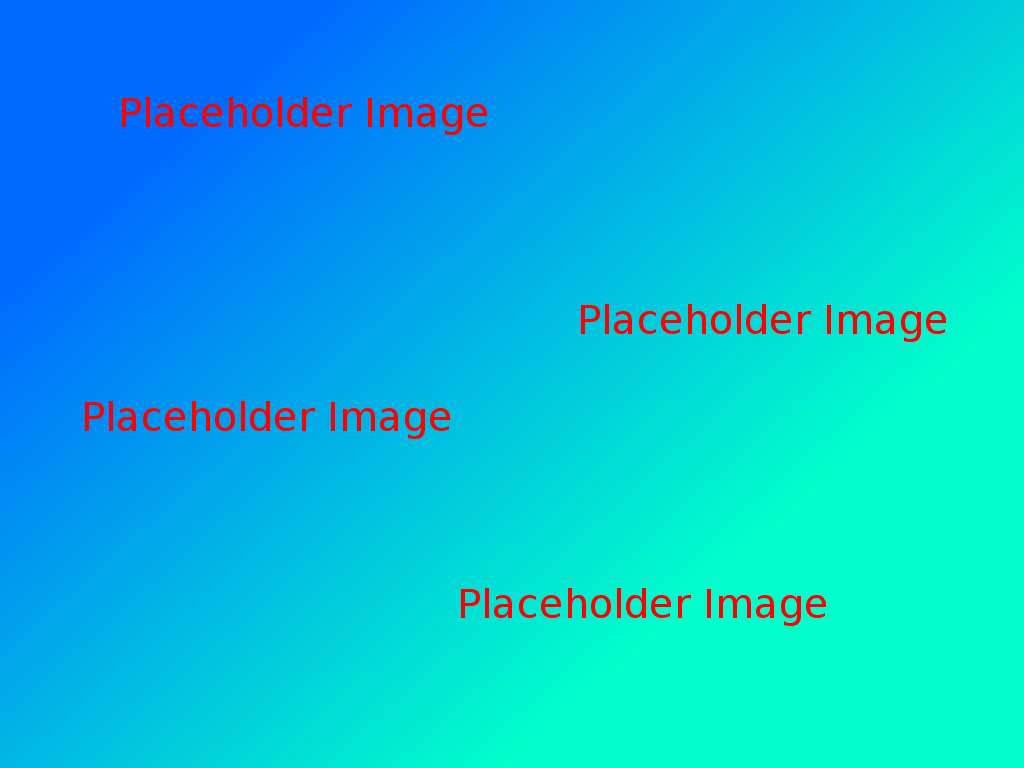
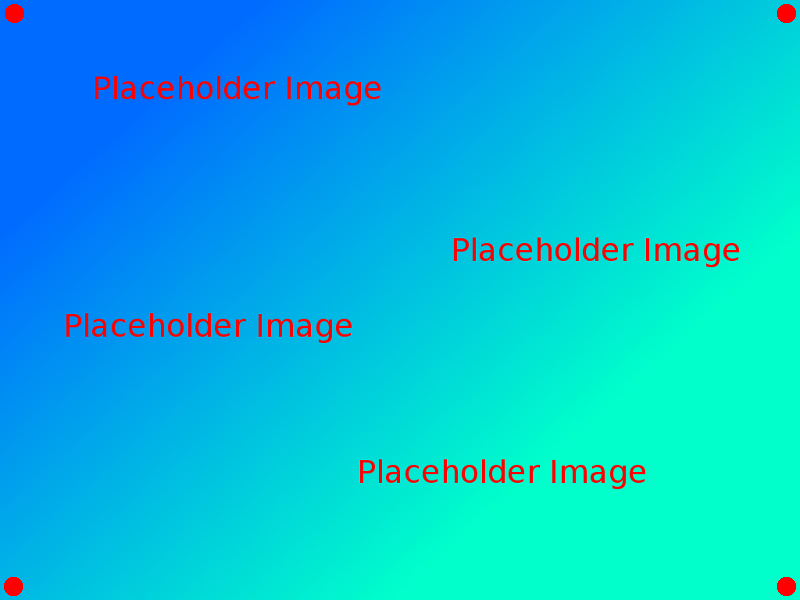
Make scenes available from scripting and fix problems.
This now actually works. To enter into scene mode, add the following
line to a level script:

    Scene.play(:prologue)

Once it gets executed, scene mode starts and displays a placeholder
image. Press Return to return to the level.

diff --git a/tsc/src/scene/scene.cpp b/tsc/src/scene/scene.cpp
@@ -33,16 +33,19 @@ using namespace TSC;
 
 cScene::cScene(void)
     : mp_sprite_manager(new cSprite_Manager()),
+      mp_camera(new cCamera(mp_sprite_manager)),
       mp_scene_image(new cSprite(mp_sprite_manager))
 {
     mp_scene_image->Set_Massive_Type(MASS_PASSIVE);
     mp_scene_image->Set_Active(true);
     mp_scene_image->Set_Spawned(false);
+    mp_scene_image->Set_Scale_Affects_Rect(true);
     mp_sprite_manager->Add(mp_scene_image);
 }
 
 cScene::~cScene(void)
 {
+    delete mp_camera;
     delete mp_sprite_manager; // Delete mp_scene_image
 }
 
@@ -50,8 +53,11 @@ void cScene::Enter(const GameMode old_mode)
 {
     pMouseCursor->Set_Sprite_Manager(mp_sprite_manager);
     pMouseCursor->Set_Active(false);
-    pAudio->Play_Music("story/theme_1", true, 0, 1000);
     gp_hud->Hide();
+
+    pActive_Camera = mp_camera;
+
+    mp_scene_image->Set_Pos(0, -game_res_h, true);
 }
 
 void cScene::Leave(const GameMode next_mode)
@@ -76,31 +82,35 @@ void cScene::Update(void)
         }
     }
 
-    // End the scene if the action sequence is empty.
+    pActive_Camera->Update();
+
+    // End the scene if the action sequence is empty, and return
+    // to the active level.
     // (Changing Game_Action subsequently causes the main loop
     // to call cScene::Leave() and then destroy it).
     if (m_action_sequence.size() == 0) {
-        Game_Action = GA_ENTER_MENU;
-        Game_Action_Data_Start.add("screen_fadeout_speed", "1.5");
-        Game_Action_Data_Middle.add("load_menu", int_to_string(MENU_START));
-        Game_Action_Data_Middle.add("menu_start_current_level", path_to_utf8(Trim_Filename(pActive_Level->m_level_filename, 0, 0)));
-        Game_Action_Data_End.add("screen_fadein_speed", "1.5");
+        Game_Action = GA_ENTER_LEVEL;
+        Game_Action_Data_Start.add("screen_fadeout", int_to_string(EFFECT_OUT_HORIZONTAL_VERTICAL));
+        Game_Action_Data_Start.add("screen_fadeout_speed", "3");
+        Game_Action_Data_Middle.add("load_level", pActive_Level->Get_Level_Name().c_str());
+        //Game_Action_Data_Middle.add("load_level_entry", str_entry.c_str()); // TODO: Use this to prevent player reset to initial position
+        Game_Action_Data_End.add("screen_fadein", int_to_string(EFFECT_IN_BLACK));
+        Game_Action_Data_End.add("screen_fadein_speed", "3");
+        //Game_Action_Data_End.add("activate_level_entry", str_entry.c_str());
     }
 }
 
 void cScene::Draw(void)
 {
+    // clear
+    pVideo->Clear_Screen();
+    // Draw scene
     mp_sprite_manager->Draw_Items();
 }
 
 void cScene::Set_Scene_Image(std::string scene_image)
 {
     mp_scene_image->Set_Image(pVideo->Get_Surface(utf8_to_path(scene_image)), true);
-}
-
-void cScene::Set_Music(std::string music)
-{
-    // TODO
 }
 
 bool cScene::Key_Down(const sf::Event& evt)

diff --git a/tsc/src/scripting/objects/misc/mrb_scene.cpp b/tsc/src/scripting/objects/misc/mrb_scene.cpp
@@ -1,0 +1,74 @@
+/***************************************************************************
+ * mrb_scene.cpp
+ *
+ * Copyright © 2012-2019 The TSC Contributors
+ ***************************************************************************
+ *
+ * This program is free software; you can redistribute it and/or modify
+ * it under the terms of the GNU General Public License as published by
+ * the Free Software Foundation; either version 3 of the License, or
+ * (at your option) any later version.
+ * You should have received a copy of the GNU General Public License
+ * along with this program. If not, see <http://www.gnu.org/licenses/>.
+ */
+
+#include "mrb_scene.hpp"
+#include "../../../scene/scene.hpp"
+#include "../../../core/game_core.hpp"
+
+/**
+ * Module: Scene
+ *
+ * Module for playing the visual novel scenes.
+ */
+
+using namespace TSC;
+using namespace TSC::Scripting;
+
+// Helper method
+static void Play_Scene(enum Scenes scene)
+{
+    Game_Action = GA_ENTER_SCENE;
+    Game_Action_Data_Start.add("screen_fadeout_speed", "1.5");
+    Game_Action_Data_Middle.add("load_scene", int_to_string(scene));
+    Game_Action_Data_End.add("screen_fadein_speed", "1.5");
+}
+
+/**
+ * Method: Scene::play
+ *
+ *   play( scene )
+ *
+ * Calling this method plays the scene with the name `scene`, which
+ * has to be a symbol, e.g. `:prologue` (to play the prologue scene).
+ *
+ * This method returns, but on the next frame update after return
+ * the game mode switches to scene mode. Once the scene has completed,
+ * the game mode returns to level mode in the level that was active
+ * when scene play was started.
+ *
+ * *Remark*: This means that this method does not block until the
+ * scene has finished!
+ */
+static mrb_value Play(mrb_state* p_state, mrb_value self)
+{
+    mrb_sym ident;
+    mrb_get_args(p_state, "n", &ident);
+    std::string identstr = mrb_sym2name(p_state, ident);
+
+    if (identstr == "prologue") {
+        Play_Scene(SCENE_PROLOGUE);
+    }
+    else {
+        mrb_raisef(p_state, MRB_ARGUMENT_ERROR(p_state), "Invalid scene '%s'.", identstr.c_str());
+    }
+
+    return mrb_nil_value();
+}
+
+void TSC::Scripting::Init_Scene(mrb_state* p_state)
+{
+    struct RClass* p_rmScene = mrb_define_module(p_state, "Scene");
+
+    mrb_define_module_function(p_state, p_rmScene, "play", Play, MRB_ARGS_REQ(1));
+}

diff --git a/tsc/src/scripting/objects/misc/mrb_scene.hpp b/tsc/src/scripting/objects/misc/mrb_scene.hpp
@@ -1,0 +1,25 @@
+/***************************************************************************
+ * mrb_scene.hpp
+ *
+ * Copyright © 2012-2019 The TSC Contributors
+ ***************************************************************************
+ *
+ * This program is free software; you can redistribute it and/or modify
+ * it under the terms of the GNU General Public License as published by
+ * the Free Software Foundation; either version 3 of the License, or
+ * (at your option) any later version.
+ * You should have received a copy of the GNU General Public License
+ * along with this program. If not, see <http://www.gnu.org/licenses/>.
+ */
+
+#ifndef TSC_MRB_SCENE_HPP
+#define TSC_MRB_SCENE_HPP
+#include "../../scripting.hpp"
+
+namespace TSC {
+    namespace Scripting {
+        void Init_Scene(mrb_state* p_state);
+    }
+}
+
+#endif /* TSC_MRB_SCENE_HPP */

diff --git a/tsc/src/scene/scene_actions.cpp b/tsc/src/scene/scene_actions.cpp
@@ -15,6 +15,7 @@
 */
 
 #include "scene_actions.hpp"
+#include "../audio/audio.hpp"
 #include "scene.hpp"
 
 namespace fs = boost::filesystem;
@@ -41,4 +42,37 @@ bool ImageChange::Execute()
 {
     mp_scene->Set_Scene_Image(m_scene_image);
     return true;
+}
+
+MusicChange::MusicChange(cScene* p_scene, std::string music)
+    : Action(p_scene),
+      m_music(music)
+{
+}
+
+bool MusicChange::Execute()
+{
+    pAudio->Play_Music(m_music, true, 0, 1000);
+    return true;
+}
+
+WaitReturn::WaitReturn(cScene* p_scene)
+    : Action(p_scene),
+      m_return_pressed(false)
+{
+}
+
+bool WaitReturn::Execute()
+{
+    return m_return_pressed;
+}
+
+bool WaitReturn::Key_Down(const sf::Event& evt)
+{
+    if (evt.key.code == sf::Keyboard::Return) {
+        m_return_pressed = true;
+        return true;
+    }
+
+    return false;
 }

diff --git a/tsc/src/level/level.cpp b/tsc/src/level/level.cpp
@@ -483,9 +483,10 @@ void cLevel::Init(void)
     }
 
 #ifdef ENABLE_MRUBY
-    /* For unknown reasons, Init() is public. And for even more unknown reasons,
-     * it is called from the outside at some totally unfitting places such as
-     * when returning from a sublevel. We do NOT want to reload all the scripting
+    /* For unknown reasons, Init() is public. And for even more
+     * unknown reasons, it is called from the outside at some totally
+     * unfitting places such as when returning from a sublevel or
+     * ending a scene. We do NOT want to reload all the scripting
      * stuff in such a case, but rather continue where we left off.
      * This is a HACK. It should be removed when Init() is made private as it
      * should be with regard to the secrecy principle of OOP. */

diff --git a/tsc/src/scene/scene.hpp b/tsc/src/scene/scene.hpp
@@ -52,8 +52,6 @@ namespace TSC {
         // Set the background image of the scene
         // scene_image is relative to the pixmaps/ directory.
         void Set_Scene_Image(std::string scene_image);
-        // Set the background music of the scene.
-        void Set_Music(std::string music);
 
         /* handle key down event
          * returns true processed
@@ -81,6 +79,7 @@ namespace TSC {
         bool Joy_Button_Up(unsigned int button);
 
         cSprite_Manager* mp_sprite_manager;
+        cCamera* mp_camera;
 
         // The actions to play in this scene, one after the other.
         vector<SceneActions::Action*> m_action_sequence;

diff --git a/tsc/src/scene/01_prologue.cpp b/tsc/src/scene/01_prologue.cpp
@@ -26,8 +26,10 @@ cPrologueScene::cPrologueScene(void)
 {
     namespace TSA = TSC::SceneActions;
 
-    m_action_sequence.push_back(
-        new TSA::ImageChange(this, "placeholder")); // deleted in Update()
+    m_action_sequence.push_back(new TSA::ImageChange(this, "scene_images/placeholder.png"));
+    m_action_sequence.push_back(new TSA::MusicChange(this, "story/theme_1.ogg"));
+    m_action_sequence.push_back(new TSA::WaitReturn(this));
+
     //m_action_sequence.push_back(
     //    new TSA::MusicChange("story/theme_1"));
     //m_action_sequence.push_back(

diff --git a/tsc/src/scripting/scripting.cpp b/tsc/src/scripting/scripting.cpp
@@ -36,6 +36,7 @@
 #include "objects/misc/mrb_input.hpp"
 #include "objects/misc/mrb_timer.hpp"
 #include "objects/misc/mrb_ball.hpp"
+#include "objects/misc/mrb_scene.hpp"
 #include "objects/misc/mrb_cinematic_scene.hpp"
 #include "objects/enemies/mrb_enemy.hpp"
 #include "objects/enemies/mrb_beetle.hpp"
@@ -349,6 +350,7 @@ void cMRuby_Interpreter::Load_Wrappers()
     Init_Audio(mp_mruby);
     Init_Timer(mp_mruby);
     Init_Ball(mp_mruby);
+    Init_Scene(mp_mruby);
     Init_Cinematic_Scene(mp_mruby);
     Init_Enemy(mp_mruby);
     Init_Beetle(mp_mruby);

diff --git a/tsc/src/scene/scene_actions.hpp b/tsc/src/scene/scene_actions.hpp
@@ -59,9 +59,19 @@ namespace TSC {
         };
 
         class MusicChange: public Action {
+        public:
+            MusicChange(cScene* p_scene, std::string music);
+            virtual bool Execute();
+            std::string m_music;
         };
 
         class WaitReturn: public Action {
+        public:
+            WaitReturn(cScene* p_scene);
+            virtual bool Execute();
+            virtual bool Key_Down(const sf::Event& evt);
+        private:
+            bool m_return_pressed;
         };
 
         class WaitTime: public Action {

diff --git a/tsc/src/core/game_core.cpp b/tsc/src/core/game_core.cpp
@@ -150,6 +150,9 @@ void Handle_Game_Events(void)
             else if (current_game_action == GA_ENTER_LEVEL_SETTINGS) {
                 new_mode = MODE_LEVEL_SETTINGS;
             }
+            else if (current_game_action == GA_ENTER_SCENE) {
+                new_mode = MODE_SCENE;
+            }
 
             Handle_Generic_Game_Events(current_game_action_data_start);
             Leave_Game_Mode(new_mode);

diff --git a/tsc/src/core/global_game.hpp b/tsc/src/core/global_game.hpp
@@ -118,7 +118,8 @@ namespace TSC {
         GA_DOWNGRADE_PLAYER = 4,
         GA_ACTIVATE_LEVEL_EXIT  = 5,
         GA_ENTER_LEVEL_SETTINGS = 6,
-        GA_RESET                = 7
+        GA_RESET                = 7,
+        GA_ENTER_SCENE          = 8
     };
 
     /* *** *** *** *** *** Level draw type *** *** *** *** *** *** *** *** *** *** *** *** */
